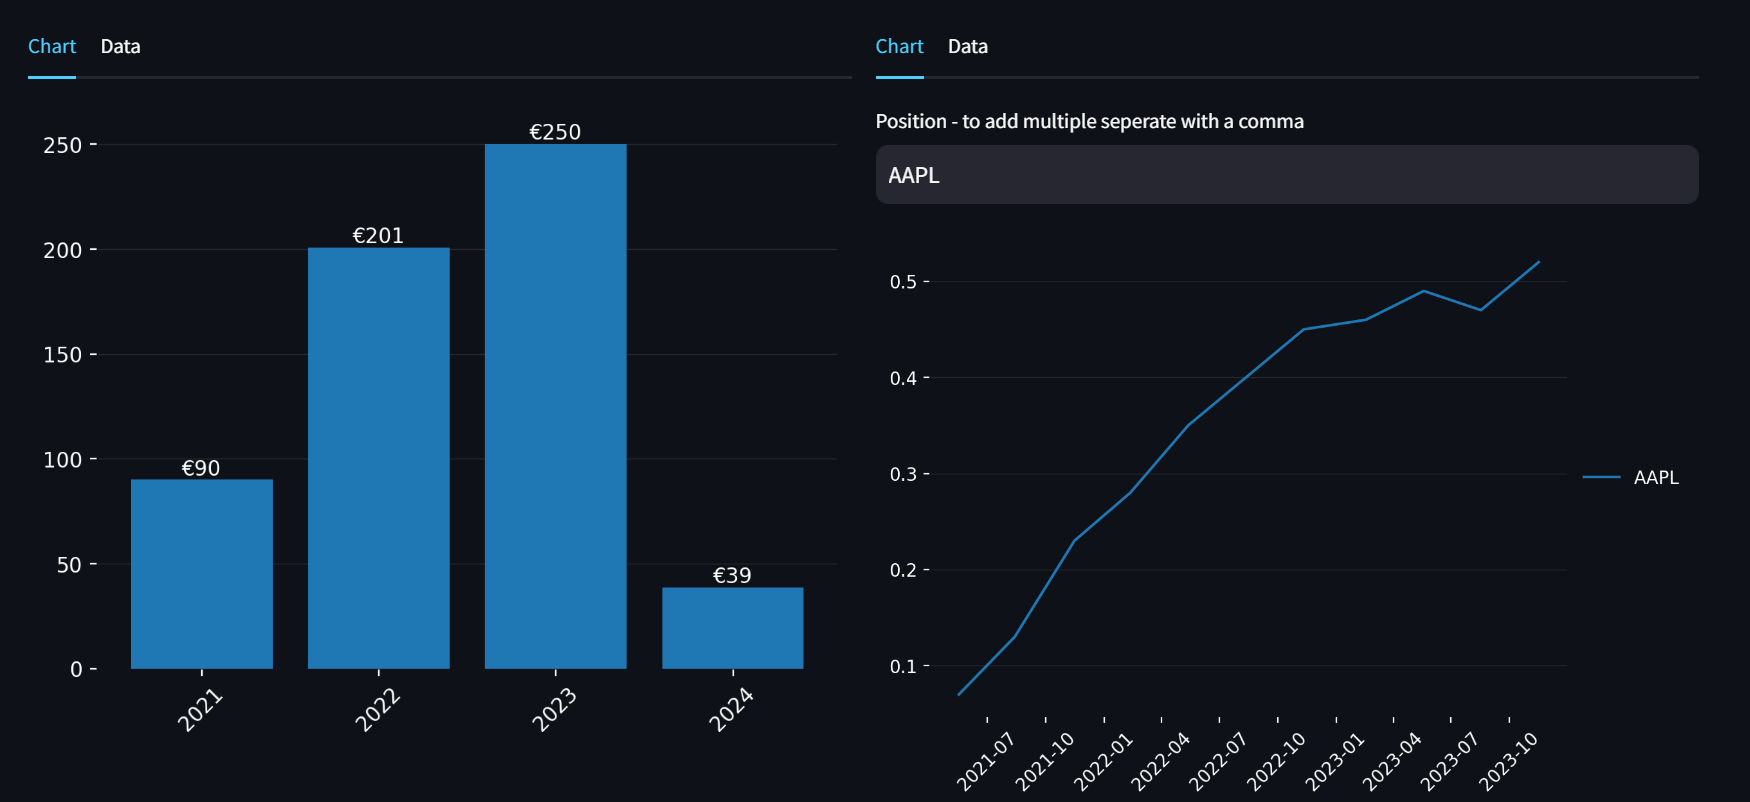
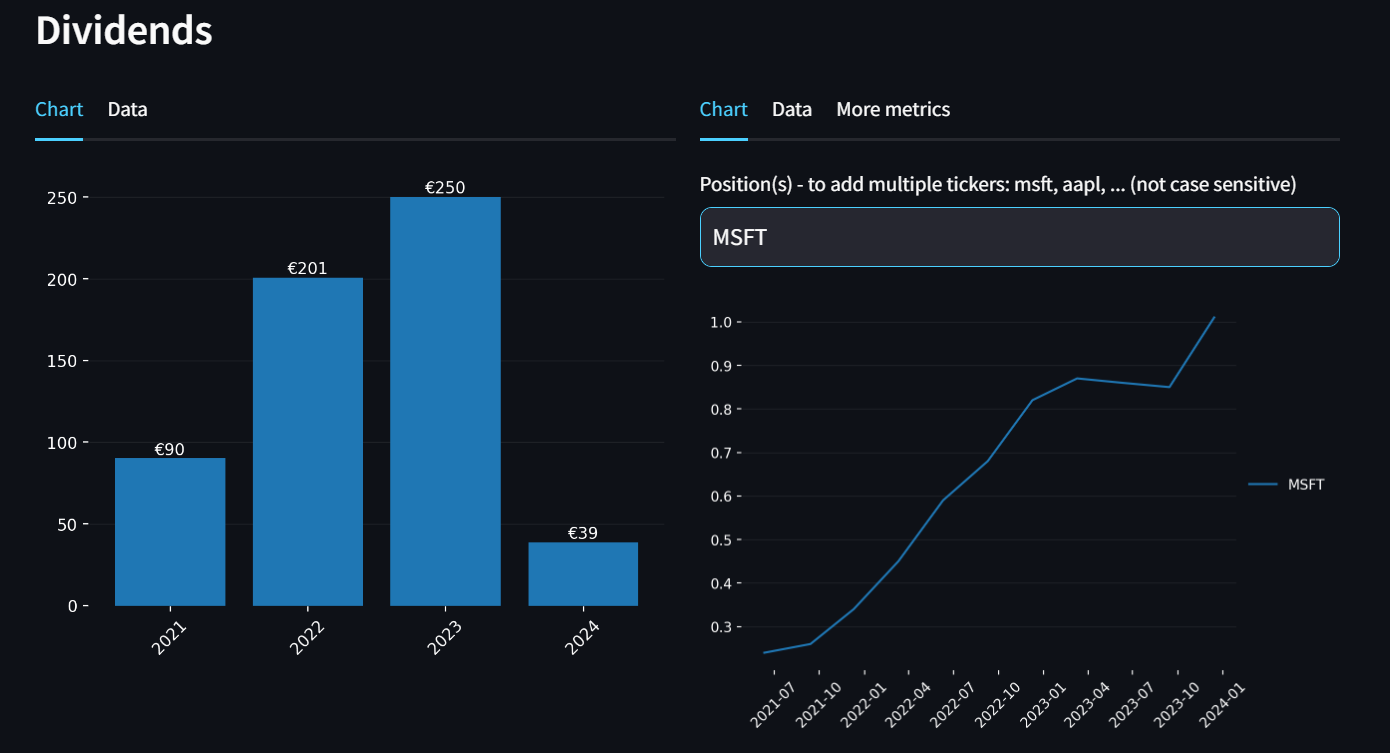
add more metrics tab to dividends section

diff --git a/src/plots/dividend_plots.py b/src/plots/dividend_plots.py
@@ -60,6 +60,9 @@ def stocks_etfs_div_line(df: pd.DataFrame, stocks = None):
         y = new_df['amount'][new_df['ticker'] == s]
         ax.plot(x, y, zorder=3)
 
+    totals_df = new_df.groupby('ticker').agg({"amount": ["count", "sum"]}).reset_index()
+    totals_df.columns = ['ticker', 'payments', 'total(€)']
+
     ax.spines['top'].set_color('#0E1117')
     ax.spines['right'].set_color('#0E1117')
     ax.spines['bottom'].set_color('#0E1117')
@@ -70,7 +73,7 @@ def stocks_etfs_div_line(df: pd.DataFrame, stocks = None):
     ax.set_facecolor('#0E1117')
     ax.grid(True, axis='y', linestyle='-', linewidth=0.5, color='w', zorder=0, alpha=0.1)
     fig.set_facecolor('#0E1117')
-    return fig, new_df
+    return fig, new_df, totals_df
 
 
 def div_per_month_bar(df: pd.DataFrame):

diff --git a/src/dashboard.py b/src/dashboard.py
@@ -187,7 +187,7 @@ with col111:
             st.write("Stocks:")
             st.write(div_stocks)
 with col222:
-    tab1, tab2 = st.tabs(["Chart", "Data"])
+    tab1, tab2, tab3 = st.tabs(["Chart", "Data", "More metrics"])
     with tab1:
         s = st.text_input("Position(s) - to add multiple tickers: msft, aapl, ... (not case sensitive)", value='MSFT')
         stocks_list = s.upper().replace(' ', '').split(',')
@@ -196,3 +196,5 @@ with col222:
 
     with tab2:
         st.write(test[1].reset_index()[['ticker', 'amount', 'pay_date']])
+    with tab3:
+        st.write(test[2])
